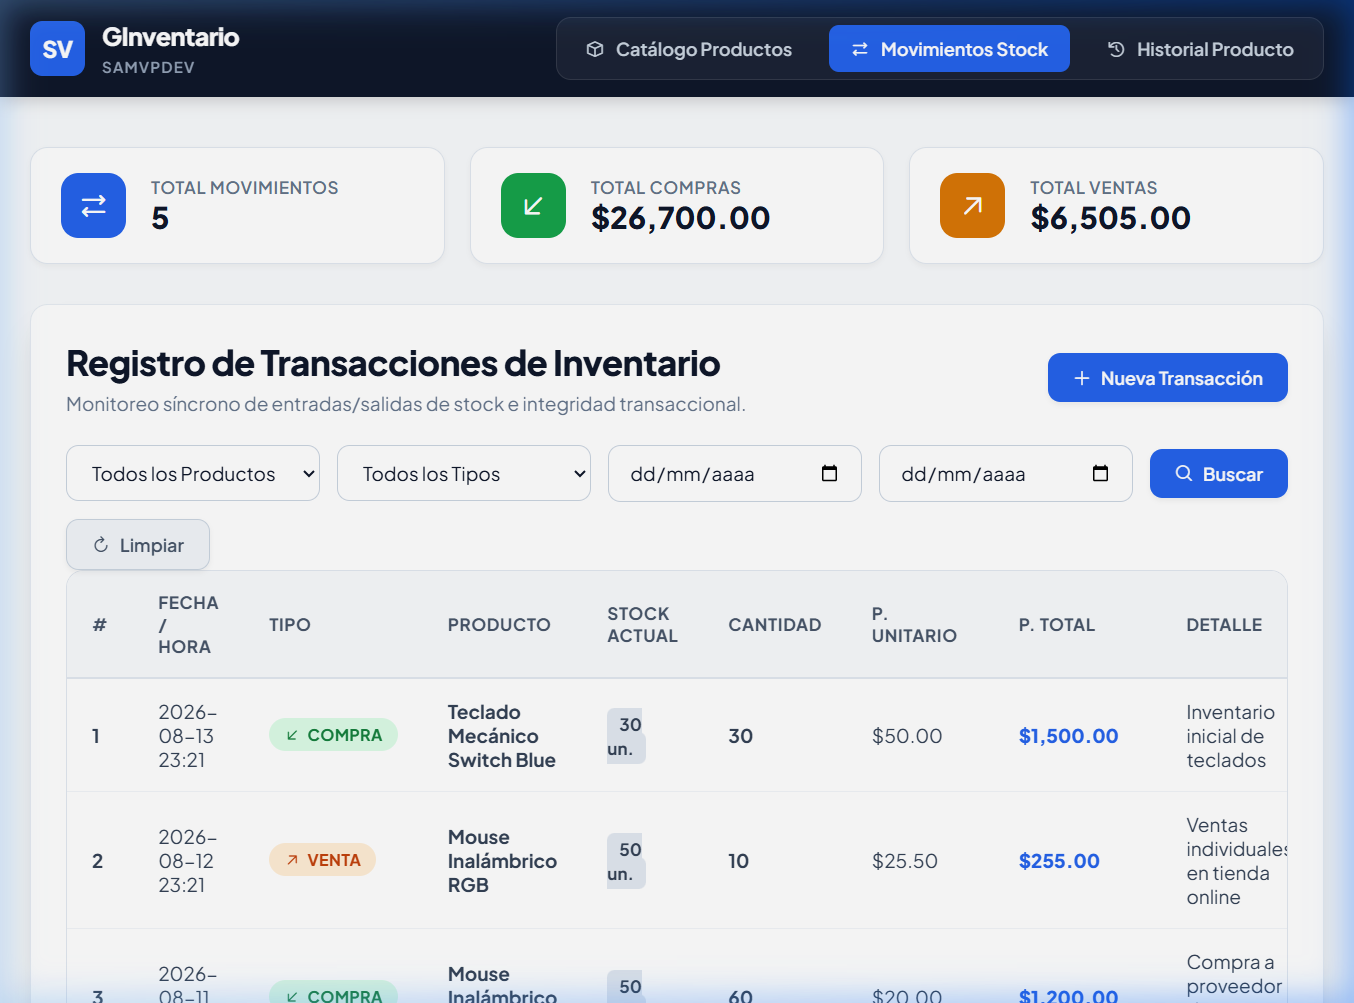
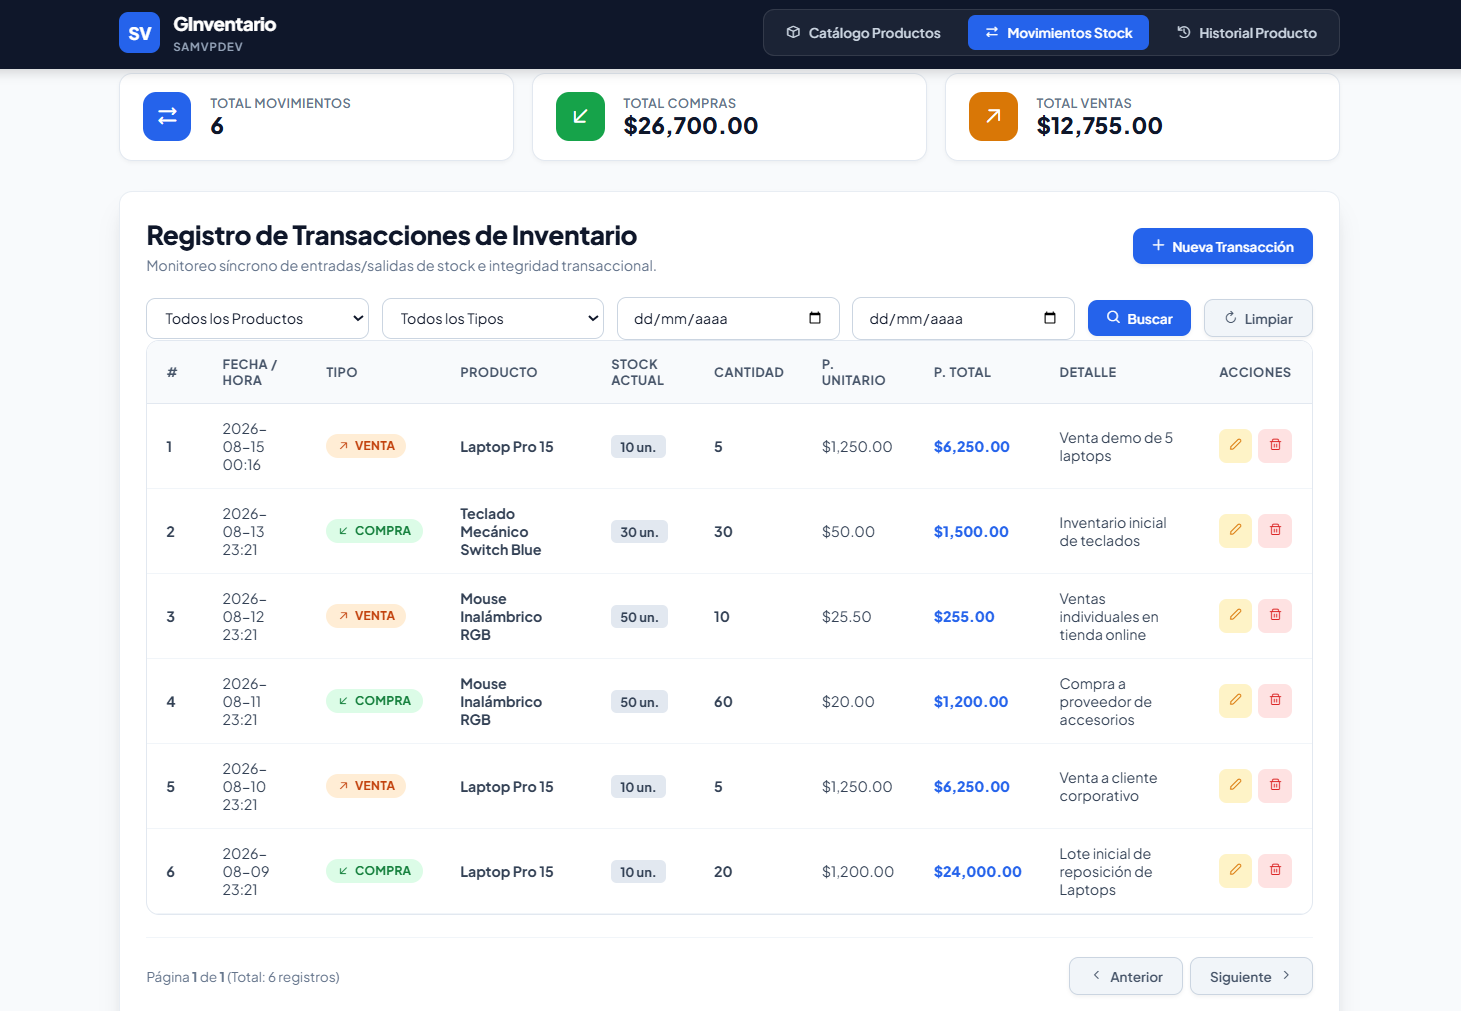
docs: Actualizar capturas de evidencias

diff --git a/README.md b/README.md
@@ -95,7 +95,7 @@ Formulario modal interactivo para registrar un nuevo producto con validaciones r
 
 ### 3. Pantalla para la edición de productos
 Formulario modal prellenado para actualizar la información existente de un producto (nombre, descripción, categoría, precio, stock).
-![Pantalla para Edición de Productos](docs/screenshots/03_modal_crear_producto.png)
+![Pantalla para Edición de Productos](docs/screenshots/08_modal_editar_producto.png)
 
 ### 4. Pantalla para la creación de transacciones
 Formulario modal con selector de productos y **validación compleja de stock disponible** para evitar ventas sin inventario suficiente.
@@ -103,11 +103,12 @@ Formulario modal con selector de productos y **validación compleja de stock dis
 
 ### 5. Pantalla para la edición de transacciones
 Permite modificar los datos de una transacción registrada recalculando y reajustando automáticamente el stock en el backend.
-![Pantalla para Edición de Transacciones](docs/screenshots/05_modal_crear_transaccion.png)
+![Pantalla para Edición de Transacciones](docs/screenshots/09_modal_editar_transaccion.png)
 
 ### 6. Pantalla de filtros dinámicos
 Búsqueda por término (nombre/descripción) y categoría en productos, además de filtro multinivel por producto, tipo de movimiento y rango de fechas en transacciones.
-![Pantalla de Filtros Dinámicos](docs/screenshots/02_filtro_productos.png)
+![Pantalla de Filtros Dinámicos Productos](docs/screenshots/02_filtro_productos.png)
+![Pantalla de Filtros Dinámicos Transacciones](docs/screenshots/10_filtro_transaccion.png)
 
 ### 7. Pantalla para la consulta de información de un formulario (extra)
 Vista especializada (`/historial`) que consulta la ficha técnica del producto seleccionado y su historial completo de movimientos auditados.
